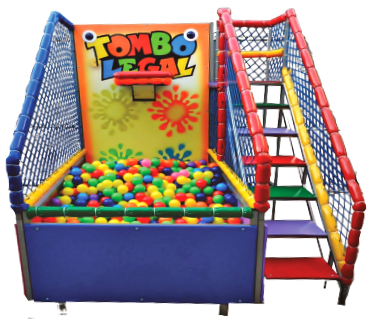
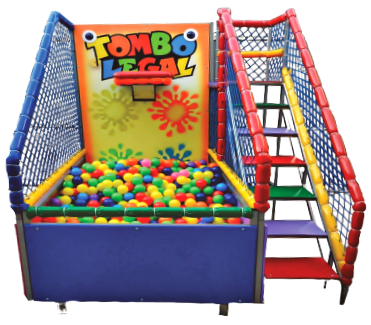
:recycle: Refactoring Homepage
Refactoring the Homepage code and improving the images

diff --git a/src/templates/HomePage.js b/src/templates/HomePage.js
@@ -1,7 +1,7 @@
 import React from 'react'
 import { graphql } from 'gatsby'
 
-import PageHeader from '../components/PageHero'
+import PageHero from '../components/PageHero'
 import Layout from '../components/Layout'
 import HeaderSection from '../components/HeaderSection'
 import OurHighlights from '../components/OurHighlights'
@@ -9,20 +9,37 @@ import HomeCategories from '../components/HomeCategories'
 import Welcome from '../components/Welcome'
 
 // Export Template for use in CMS preview
-export const HomePageTemplate = ({ title, subtitle, featuredImage, body }) => (
+export const HomePageTemplate = ({
+  title,
+  subtitle,
+  featuredImage,
+  heroImage,
+  heroTitle,
+  heroAlt,
+  hdSectionTt01,
+  hdSectionSubTt01,
+  hdSectionTt02,
+  hdSectionSubTt02,
+  hdSectionTt03,
+  hdSectionSubTt03,
+  body
+}) => (
   <main className="Home">
-    <PageHeader
+    <PageHero
       large
       title={title}
       subtitle={subtitle}
       backgroundImage={featuredImage}
+      heroImage={heroImage}
+      heroTitle={heroTitle}
+      heroAlt={heroAlt}
     />
 
     <section className="section">
       <div className="container">
         <HeaderSection
-          hdSectionTt="Nossos Destaques"
-          hdSectionSubTt="Conheça os nossos maiores Sucessos"
+          hdSectionTt={hdSectionTt01}
+          hdSectionSubTt={hdSectionSubTt01}
         />
         <OurHighlights />
       </div>
@@ -30,8 +47,8 @@ export const HomePageTemplate = ({ title, subtitle, featuredImage, body }) => (
     <section className="section section-Inverse section-Purple">
       <div className="container">
         <HeaderSection
-          hdSectionTt="Nossos Produtos"
-          hdSectionSubTt="Navegue em nossos produtos por categoria"
+          hdSectionTt={hdSectionTt02}
+          hdSectionSubTt={hdSectionSubTt02}
         />
         <HomeCategories />
       </div>
@@ -39,8 +56,8 @@ export const HomePageTemplate = ({ title, subtitle, featuredImage, body }) => (
     <section className="section">
       <div className="container">
         <HeaderSection
-          hdSectionTt="Bem-Vindo ao Nosso Site"
-          hdSectionSubTt="Saiba mais sobre a brincadeira de criança"
+          hdSectionTt={hdSectionTt03}
+          hdSectionSubTt={hdSectionSubTt03}
         />
         <Welcome />
       </div>
@@ -66,6 +83,15 @@ export const pageQuery = graphql`
         title
         subtitle
         featuredImage
+        heroImage
+        heroTitle
+        heroAlt
+        hdSectionTt01
+        hdSectionSubTt01
+        hdSectionTt02
+        hdSectionSubTt02
+        hdSectionTt03
+        hdSectionSubTt03
       }
     }
   }

diff --git a/src/components/PageHero.js b/src/components/PageHero.js
@@ -4,12 +4,13 @@ import PropTypes from 'prop-types'
 import Image from './Image'
 import Content from './Content'
 
-import heroImage from '../../static/products/tombo_legal.png'
-
 const PageHero = ({
   title,
   subtitle,
   backgroundImage,
+  heroImage,
+  heroTitle,
+  heroAlt,
   large,
   className = ''
 }) => {
@@ -41,10 +42,10 @@ const PageHero = ({
         </div>
         <div className="PageHero--Item">
           <figure className="PageHero--Image">
-            <img
+            <Image
               src={heroImage}
-              title="Tombo Legal"
-              alt="Foto do brinquedo Tombo Legal"
+              title={heroTitle}
+              alt={heroAlt}
             />
           </figure>
         </div>

diff --git a/content/pages/home.md b/content/pages/home.md
@@ -2,12 +2,18 @@
 template: HomePage
 slug: ''
 title: Tombo Legal
-featuredImage: '../images/home_bg.jpg'
+featuredImage: https://brincadeira.co/images/home_bg.jpg
+heroImage: https://brincadeira.co/products/tombo_legal.png
+heroTitle: Tombo Legal
+heroAlt: Foto do brinquedo Tombo Legal
 subtitle: 'Diversão em dobro com o **Tombo Legal**!'
-hdSectionTr: 'Do markdown'
+hdSectionTt01: Nossos Destaques
+hdSectionSubTt01: Conheça os Nossos Maiores Sucessos
+hdSectionTt02: Nossos Produtos
+hdSectionSubTt02: Navegue em Nossos Produtos por Categoria
+hdSectionTt03: Bem-Vindo ao Nosso Site
+hdSectionSubTt03: Saiba Mais Sobre a Brincadeira de Criança
 meta:
   description: Site institucional da empresa de aluguel Brincadeira de Criança.
   title: Brincadeira de Criança
 ---
-
-Breve teste de conteúdo.

diff --git a/content/pages/about-us.md b/content/pages/about-us.md
@@ -15,6 +15,6 @@ section1: >-
   Nosso objetivo é satisfazer nossos clientes, prezando pela qualidade no atendimento, pontualidade, cordialidade e produtos em bom estado proporcionando maior segurança.
 
 meta:
-  description: Meta tag de descrição
+  description: Saiba um pouco mais sobre a Brincadeira de Criança
   title: Sobre Nós
 ---
